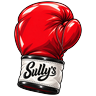
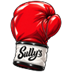
Make the boxing glove cursor a little smaller.

diff --git a/apps/web/src/app/globals.css b/apps/web/src/app/globals.css
@@ -69,7 +69,7 @@ img {
 @media (hover: hover) and (pointer: fine) {
   html[data-brand="sullys"] body,
   html[data-brand="sullys"] body * {
-    cursor: url("/cursors/sullys-glove.png?v=sm") 48 1, auto;
+    cursor: url("/cursors/sullys-glove.png?v=sm2") 36 1, auto;
   }
 
   html[data-brand="sullys"] input,
